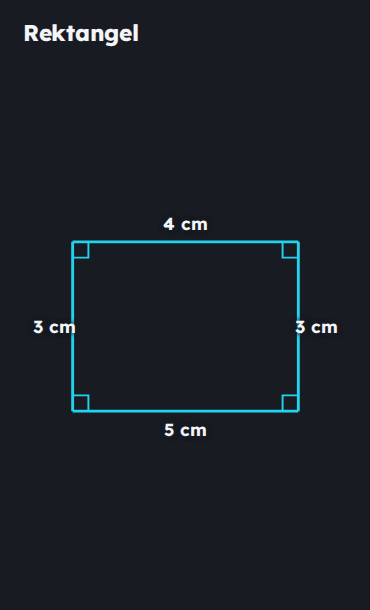
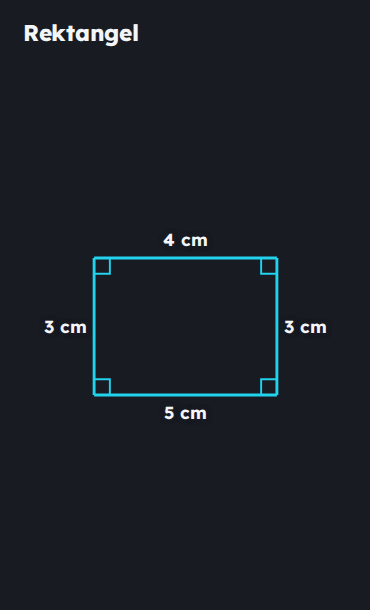
Rebase length lint onto merged PR56; final-lint preview repair proof

Changed region(s): [[0.0892, 0.3426, 0.9216, 0.7164]]

diff --git a/screen/tools/check_lengths.py b/screen/tools/check_lengths.py
@@ -8,7 +8,7 @@ the independent check finds is named by shell lint, and no consistent,
 unknown, hidden or opted-out case warns.
 
   uv run --project server python screen/tools/check_lengths.py --out /tmp/lengths
-  uv run --project server python screen/tools/check_lengths.py --out /tmp/lengths --prior-ref 950b3b0
+  uv run --project server python screen/tools/check_lengths.py --out /tmp/lengths --prior-ref 5ff811e
 
 --prior-ref exports that git ref's shell and renders the same bodies there:
 the inconsistent case must render fine but stay silent (the gap this lint
@@ -318,16 +318,6 @@ def issue_kind(issue) -> str:
     return m.group(1).lower() if m else ""
 
 
-def fixed_body(body: str, patch: str) -> str:
-    """Apply a single replace-patch to the source (test helper, not the shell)."""
-    m = re.search(r'<ot-patch\b[^>]*target="([^"]+)"[^>]*>(.*)</ot-patch>', patch, re.S)
-    assert m, f"cannot read patch: {patch[:80]}"
-    target, replacement = m.group(1), m.group(2)
-    full = re.compile(r'<ot-polygon\b[^>]*id="' + re.escape(target) + r'"[^>]*>.*?</ot-polygon>', re.S)
-    assert full.search(body), f"patch target {target} missing"
-    return full.sub(lambda _: replacement, body, count=1)
-
-
 def check_lifecycle(shell, out: Path) -> list[str]:
     """Hidden/reveal, patch replacement/repair and resizing; schematic survival."""
     from playwright.sync_api import sync_playwright
@@ -400,12 +390,10 @@ def check_lifecycle(shell, out: Path) -> list[str]:
         finally:
             browser.close()
 
-    # Real server preview: the repaired body passes the real server renderer.
-    # (Patch-job preview returns on main accumulate the first render's issues
-    # for every lint kind, pre-existing and owned by PR56's final-lint preview
-    # change; the frame-level repair above is what this lint owns. No
-    # length-side change is needed there: lintLengths() already keeps final
-    # lint current by dropping stale length findings before re-adding.)
+    # Real server preview: the repaired page clears. Previews return final
+    # lint (PR56), and lintLengths() drops stale length findings before
+    # re-adding, so a repaired figure comes back clean. The lint retry path
+    # renders the corrected full body fresh and was never affected.
     import asyncio
     import tempfile
     sys.path.insert(0, str(ROOT.parent / "server"))
@@ -415,10 +403,9 @@ def check_lifecycle(shell, out: Path) -> list[str]:
         with tempfile.TemporaryDirectory() as directory:
             screen = Screen({}, Path(directory))
             try:
-                _, issues = await screen._default_render_page(
-                    fixed_body(bad, fixed), None, 370, 610)
+                _, issues = await screen._default_render_page(bad, fixed, 370, 610)
                 if [i for i in issues if issue_kind(i) == "length"]:
-                    failures.append(f"server render of repaired body warns: {issues}")
+                    failures.append(f"server preview kept repaired length warnings: {issues}")
             finally:
                 await screen.aclose()
 

diff --git a/screen/review/2026-11-13-lengths/README.md b/screen/review/2026-11-13-lengths/README.md
@@ -41,9 +41,9 @@ renders the same bodies with that ref's shell: inconsistency must render fine
 but silent there. Chromium fetches the usual public shell CDN assets; CI
 coverage is `screen/tests/test_length_lint.py` (pure decision logic, no
 browser/key). Repeat: `uv run --project server python
-screen/tools/check_lengths.py --out /tmp/lengths [--prior-ref 950b3b0]`.
+screen/tools/check_lengths.py --out /tmp/lengths [--prior-ref 5ff811e]`.
 
-| Case | Independent verdict | Shell (new) | Prior shell 950b3b0 |
+| Case | Independent verdict | Shell (new) | Prior shell 5ff811e (main with PR56) |
 |---|---|---|---|
 | bad-4vs5 (4-unit side says 5 cm) | 1 finding: side 1, ~20% shorter | warns both sizes | renders fine, silent |
 | joint-two (two known sides disagree) | 1 joint finding, no direction | warns both sizes | renders fine, silent |
@@ -73,13 +73,15 @@ leak), corners pointable. No false positive on real output.
 - Foreshortened faces with numeric `sides` (a cuboid drawn with per-face
   measures) would warn; such sketches must carry `schematic`. The cuboid probe
   body uses segments and stays quiet. One REFERENCE.md line teaches the opt-out.
-- Server patch-preview returns on main accumulate the first render's issues
-  for every lint kind (pre-existing; PR56's preview change reads final lint).
-  No length-side change is needed there: `lintLengths()` drops stale length
-  findings before re-adding, so final lint is already correct, and the lint
-  retry renders the corrected full body fresh (unaffected).
-- PR56 owns side-label placement and the shared `lint()`/reveal hook points;
-  this change only reads attributes and adds kind `length` (actionable by
-  default, so the existing bounded retry applies with no server change).
-  Observed while inspecting: the live page's "3 cm" label sits very close to
-  its edge — placement, i.e. PR56's domain, reported not fixed here.
+- Server patch previews return final lint (PR56, now on main), so a repaired
+  figure comes back clean there too — the lifecycle check asserts exactly
+  this. `lintLengths()` drops stale length findings before re-adding, which
+  is what keeps final lint correct; the lint retry renders the corrected
+  full body fresh and was never affected.
+- Placement is PR56's (now on main): this change only reads attributes and
+  adds kind `length` (actionable by default, so the existing bounded retry
+  applies with no server change). It touches the same `lint()`/reveal hook
+  points by appending one call each; the two recomputes are kind-disjoint.
+- Model page re-rendered after the PR56 merge: the 3 cm label now sits clear
+  of its edge, so no remaining placement defect to report; corners pointable,
+  answer box empty, lint clean at boot and after the patch at both sizes.

diff --git a/screen/NOTES.md b/screen/NOTES.md
@@ -10,7 +10,7 @@ REFERENCE.md line draws sides to scale and teaches the `schematic` opt-out.
 A 4-vs-5 synthetic warns while consistent scaled/rounded/mixed-unit figures
 and real writer bodies stay quiet; hidden figures warn only after reveal and
 repaired warnings clear. Reproduce with `tools/check_lengths.py
-[--prior-ref 950b3b0]`; CI pins the decision logic in
+[--prior-ref 5ff811e]`; CI pins the decision logic in
 `tests/test_length_lint.py`. Evidence: `review/2026-11-13-lengths/`, incl. one
 fresh Hydrogen-low page plus patch (lint-clean, inspected at both sizes).
 No new tags, no server change (`length` is actionable by default).
